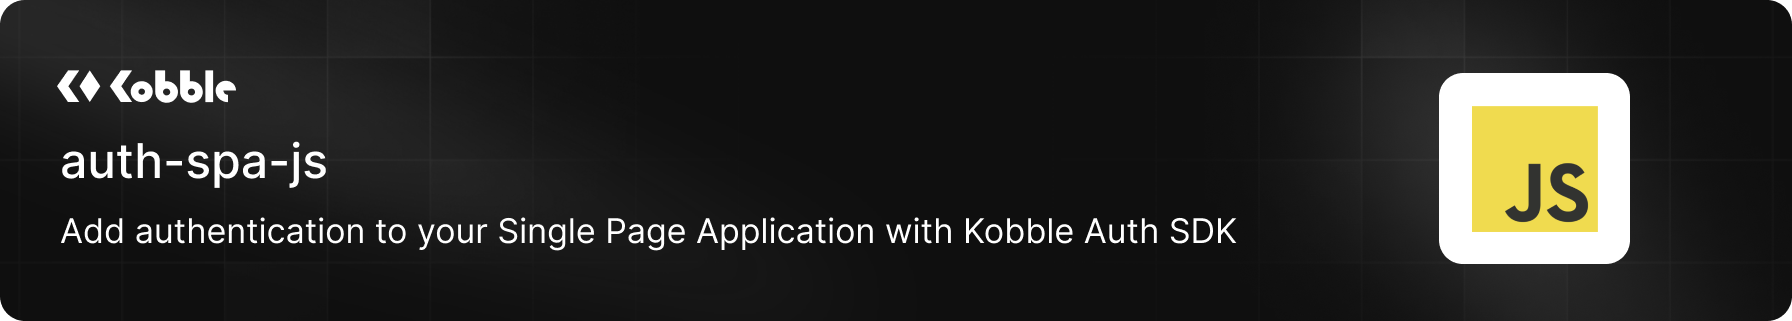
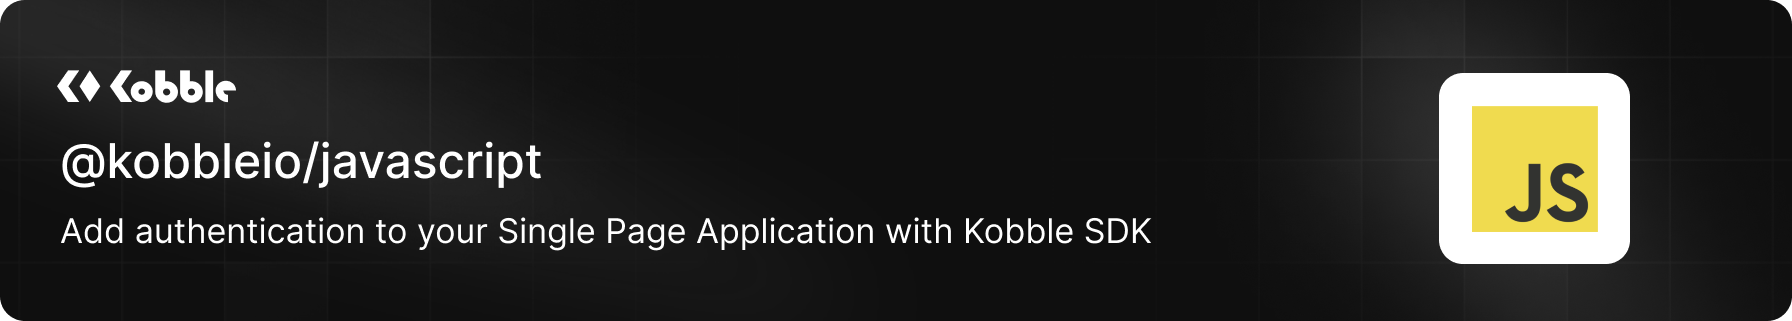
Rename package

Changed region(s): [[0.0312, 0.4361, 0.3125, 0.5919], [0.5938, 0.6854, 0.6875, 0.7788]]

diff --git a/README.md b/README.md
@@ -1,4 +1,4 @@
-![Add authentication to your Single Page Application with Kobble Auth SDK.](https://github.com/kobble-io/auth-spa-js/blob/main/.readme/banner.png?raw=true)
+![Add authentication to your Single Page Application with Kobble Auth SDK.](https://github.com/kobble-io/javascript/blob/main/.readme/banner.png?raw=true)
 
 [![License](https://img.shields.io/:license-mit-blue.svg?style=flat)](https://opensource.org/licenses/MIT)
 ![Status](https://img.shields.io/:status-stable-green.svg?style=flat)
@@ -15,7 +15,7 @@ It's secure by design (using PKCE flow), easy to use, and works with any JavaScr
 Using [npm](https://npmjs.org) in your project directory run the following command:
 
 ```sh
-npm install @kobbleio/auth-spa-js
+npm install @kobbleio/javascript
 ```
 
 ### Configure Kobble
@@ -31,7 +31,7 @@ Note the **Client ID** and your **Portal Domain** values.
 Create a `KobbleClient` instance before rendering or initializing your application. You should only have one instance of the client.
 
 ```js
-import { createKobbleClient } from '@kobbleio/auth-spa-js';
+import { createKobbleClient } from '@kobbleio/javascript';
 
 const kobble = createKobbleClient({
     domain: 'https://<YOUR_PORTAL_DOMAIN>',
@@ -76,7 +76,7 @@ window.addEventListener('load', async () => {
 
 ### Raise an issue
 
-To provide feedback or report a bug, please [raise an issue on our issue tracker](https://github.com/kobble-io/auth-spa-js/issues).
+To provide feedback or report a bug, please [raise an issue on our issue tracker](https://github.com/kobble-io/javascript/issues).
 
 ___
 
@@ -84,7 +84,7 @@ ___
 
 <p align="center">
   <picture>
-    <img alt="Kobble Logo" src="https://github.com/kobble-io/auth-spa-js/blob/main/.readme/logo.png?raw=true" width="150">
+    <img alt="Kobble Logo" src="https://github.com/kobble-io/javascript/blob/main/.readme/logo.png?raw=true" width="150">
   </picture>
 </p>
 <p align="center">
